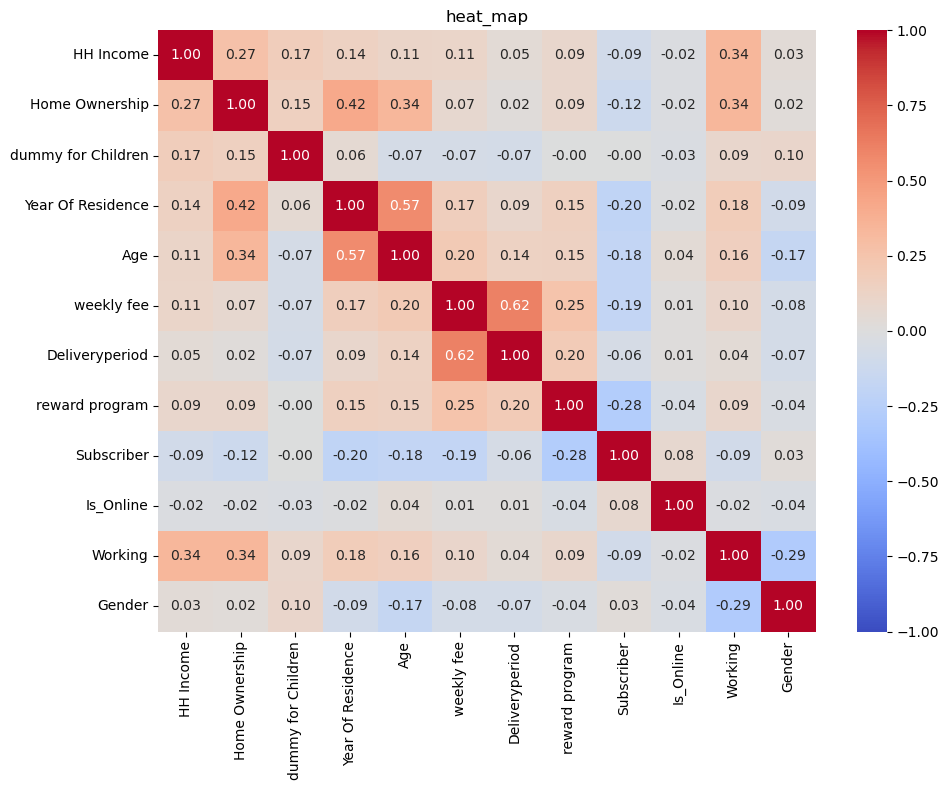
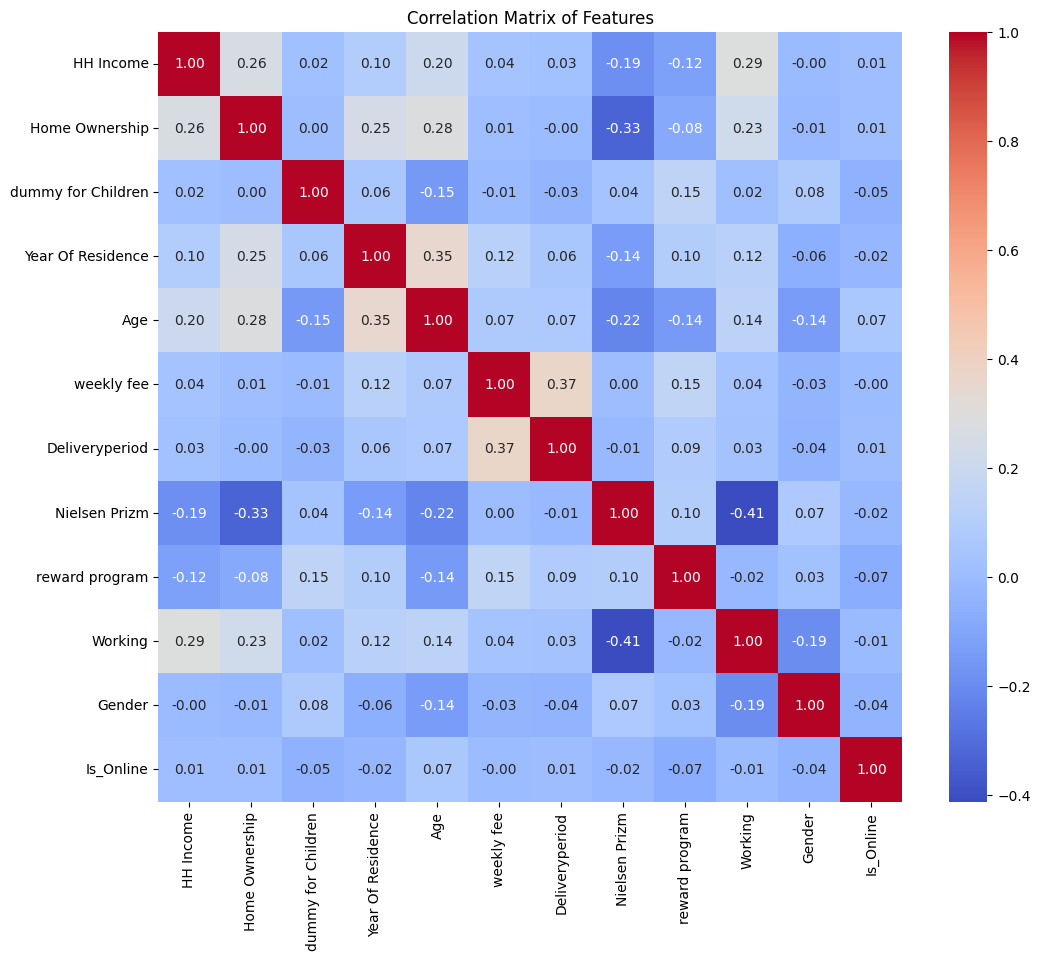
readmeupdate

diff --git a/README.md b/README.md
@@ -60,7 +60,7 @@
 | 프로젝트 주제선정   | 03-31   | 03-31   |  ALL   |    데이터셋     |
 | EDA작성            | 03-31  | 03-31  |   ALL     |                |
 | 모델 선정  | 03-31  | 03-31  |   ALL   |  |
-| 모델 성능평가      | 03-31  | 03-31  |   ALL     |       |
+| 모델 성능평가      | 03-31  | 03-31  |   ALL     |         |
 | README 작성  | 03-31  | 03-31  |   ALL     |           |
 | 발표         | 03-31  | 03-31  |    황준호    | 결과               |
 
@@ -83,37 +83,31 @@
 ## 히트맵 & 그래프
 ![이미지](./img/heatmap.png) </br>
 
-### 상관관계 분석 결과
+## 변수 간 상관관계 분석
 
-#### 주요 상관관계
+### 주요 상관관계
+- **Weekly Fee ↔ Delivery Period** (상관계수: 0.37)  
+  - 주간 요금과 배송 기간 사이에 양의 상관관계가 존재.  
+  - 👉 배송 주기가 길수록 요금이 증가하는 경향.
 
-- **Weekly Fee ↔ Delivery Period** (0.65)  
-  - 요금이 높은 고객은 주간 또는 매일 배달을 선택하는 경향이 큼.  
-  - 👉 **고가 요금제 + 고빈도 배송 서비스 상품** 제안.
+- **Year Of Residence ↔ Age** (상관계수: 0.35)  
+  - 거주 기간과 나이 사이에 양의 상관관계가 존재.  
+  - 👉 연령이 높을수록 거주 기간이 길어지는 경향.
 
-- **Home Ownership ↔ Year Of Residence** (0.44)  
-  - 집을 소유한 고객은 장기 거주 가능성이 높음.  
-  - 👉 **주택 소유자 대상 장기 구독 할인 정책** 추천.
+- **Working ↔ Nielsen Prizm** (상관계수: -0.41)  
+  - 특정 Nielsen Prizm 코드일 때 비근로자일 확률이 높음.  
+  - 👉 Working(1)과 특정 고객 유형 간 반비례 관계.
 
-- **Age ↔ Year Of Residence** (0.60)  
-  - 나이가 많을수록 장기 거주 경향이 있음.  
-  - 👉 **고령층 맞춤형 장기 계약 서비스** 제안.
+---
 
-- **Gender ↔ Working** (-0.22)  
-  - 남성 근로자 비율이 조금 더 높음.  
-  - 👉 **직장인 대상 조간 신문 구독 캠페인** 필요.
+### 상관관계가 거의 없는 변수
+- **Is_Online**  
+  - 대부분의 변수와 상관성이 낮아, 온라인 구독 여부가 다른 변수와 큰 연관성이 없음.
 
+- **Gender**  
+  - 대부분의 변수와 상관계수가 낮아, 성별이 구독 여부에 직접적인 영향을 미치지 않음.
 
-![이미지](./img/중요도.png)
-
-### 변수 중요도 분석 결과 - Random Forest
-
-- **Weekly Fee**: 고객 이탈 여부에 가장 큰 영향을 미치는 변수
-- **Nielsen Prizm**: 고객 유형 코드로, 두 번째로 중요한 변수
-- **Year Of Residence**: 거주 연수가 세 번째로 중요한 변수
-- **Age**: 나이 역시 중요한 변수로 확인
-- **HH Income**: 가구 소득도 일정한 영향을 미치는 변수
-
+<br/>
 
 ### 이탈 여부 분포
 ![이미지](./img/EDA1.png)
@@ -153,11 +147,7 @@
 
 <br/>
 
-# 인공지능 학습 결과서
-
-
-
-## 모델 성능 비교표
+## 모델 성능 비교표 
 
 | 모델                          | Precision (Class `0`) | Recall (Class `0`) | F1 Score (Class `0`) | Precision (Class `1`) | Recall (Class `1`) | F1 Score (Class `1`) |
 |------------------------------|-----------------------|--------------------|----------------------|-----------------------|--------------------|----------------------|
@@ -169,41 +159,48 @@
 | SVM (Cost-Sensitive)         | 0.76                  | 0.71               | 0.74                 | 0.73                  | 0.77               | 0.75                 |
 
 
+## 모델 성능 비교표 - Faker 데이터 증강 후
+
+| 모델                          | Precision (Class `0`) | Recall (Class `0`) | F1 Score (Class `0`) | Precision (Class `1`) | Recall (Class `1`) | F1 Score (Class `1`) |
+|------------------------------|-----------------------|--------------------|----------------------|-----------------------|--------------------|----------------------|
+| 로지스틱 회귀 (Cost-Sensitive) | 0.82                  | 0.71               | 0.76                 | 0.74                  | 0.85               | 0.79                 |
+| KNN                          | 0.86                  | 0.78               | 0.82                 | 0.79                  | 0.87               | 0.83                 |
+| 랜덤 포레스트 (Cost-Sensitive) | 0.91                  | 0.83               | 0.87                 | 0.84                  | 0.91               | 0.88                 |
+| XGBoost (Cost-Sensitive)     | 0.96                  | 0.79               | 0.86                 | 0.82                  | 0.97               | 0.89                 |
+| MLP (Cost-Sensitive)         | 0.89                  | 0.78               | 0.83                 | 0.80                  | 0.91               | 0.85                 |
+| SVM (Cost-Sensitive)         | 0.90                  | 0.76               | 0.82                 | 0.79                  | 0.92               | 0.85                 |
+
+
 <br/>
 
-# 수행 결과
+# 최종 모델 선정 - Random Forest
+
+![이미지](./img/RandomForest.png)
 
 
-<br/>
+![이미지](./img/중요도.png)
 
-# 종합 인사이트 및 전략
+## 변수 중요도 분석 결과
 
-### 주요 타겟 선정
-- **고요금제 구독자**: 요금 인하 캠페인으로 이탈률 감소.  
-- **장기 거주자 및 고소득 고객**: 프리미엄 서비스 강화와 장기 구독 할인으로 충성도 향상.
+### 주요 변수
+- **Weekly Fee**: 중요도 20%  
+  - 구독 여부 예측에서 가장 큰 영향력을 가지는 변수.
 
----
+- **HH Income**: 중요도 18%  
+  - 가구 소득이 구독 여부에 큰 영향을 미침.
 
-### 위험 고객 예측
-- **특징**: 주간 요금이 높고 거주 기간이 짧은 고객.  
-- **전략**: 특별 혜택 제공 및 만족도 조사로 불만 요소 파악.
+- **Reward Program**: 중요도 16%  
+  - 리워드 프로그램 참여가 구독 유지의 핵심 요인.
 
----
-
-### 맞춤형 서비스 제공
-- **연령별 서비스**:  
-  - 젊은 층: 디지털 콘텐츠 강화.  
-  - 중장년층: 오프라인 혜택 제공.
-
-- **고객 유형별 구독 플랜**:  
-  - 고소득층: 고급 콘텐츠 및 부가 서비스 제공.  
-  - 저소득층: 요금 부담 완화 정책 적용.
+- **Age, Year Of Residence**: 중요도 약 10%  
+  - 나이와 거주 연수가 구독 여부와 일정 부분 연관됨.
 
 ---
 
-### 서비스 개선 방향
-- **고객 세분화**: 상관관계 높은 변수를 기반으로 마케팅 전략 구체화.  
-- **패키지 상품 개발**: 배달 빈도와 주간 요금제를 결합한 패키지로 가격 민감도 완화.
+### 중요도가 낮은 변수
+- **Is_Online, Working, Gender**  
+  - 구독 여부를 예측하는 데 상대적으로 낮은 중요도를 보임.
+
 
 
 <br/>
